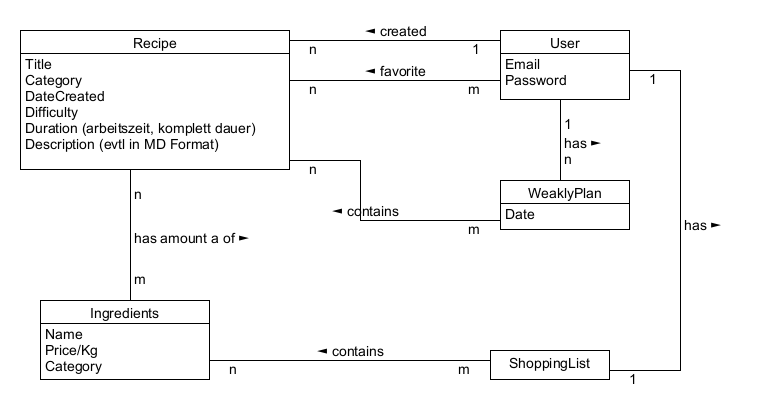
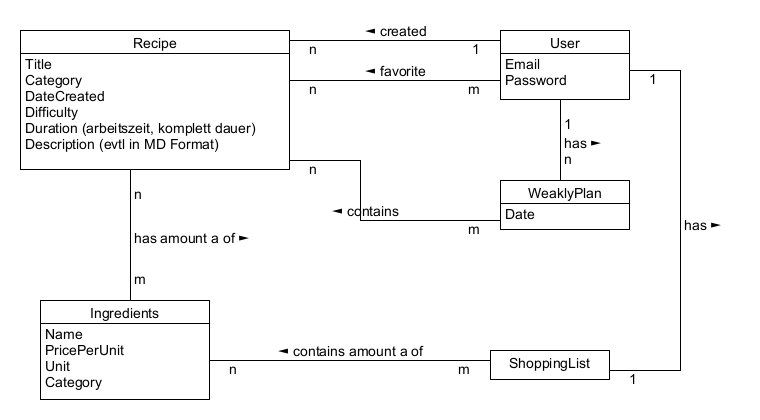
EAT-23: Fixed Database

Changed region(s): [[0.3632, 0.8048, 0.5447, 0.8667], [0.0605, 0.8048, 0.1513, 0.9286]]

diff --git a/api/EatIt.Core/Database/ApplicationDbContext.cs b/api/EatIt.Core/Database/ApplicationDbContext.cs
@@ -35,27 +35,31 @@ namespace EatIt.Core.Database {
 
             builder.Entity<RecipeIngredient>()
                 .HasKey(x => new { x.RecipeId, x.IngredientId });
-           /* builder.Entity<RecipeIngredient>()
-                .HasOne(x => x.Ingredient)
-                .WithOne()
-                .OnDelete(DeleteBehavior.NoAction);
-            builder.Entity<RecipeIngredient>()
-                .HasOne(x => x.Recipe)
-                .WithOne()
-                .OnDelete(DeleteBehavior.NoAction);*/
+            /* builder.Entity<RecipeIngredient>()
+                 .HasOne(x => x.Ingredient)
+                 .WithOne()
+                 .OnDelete(DeleteBehavior.NoAction);
+             builder.Entity<RecipeIngredient>()
+                 .HasOne(x => x.Recipe)
+                 .WithOne()
+                 .OnDelete(DeleteBehavior.NoAction);*/
             #endregion
 
             #region ShoppingIngredient Many to many
-            builder.Entity<ShoppingList>()
-                .HasMany(x => x.Ingredients)
-                .WithOne();
 
             builder.Entity<ShoppingIngredient>()
+                .HasKey(x => new { x.ShoppingListId, x.IngredientsId });
+
+            /*builder.Entity<ShoppingIngredient>()
                 .HasOne(x => x.Ingredient)
                 .WithMany();
 
             builder.Entity<ShoppingIngredient>()
-                .HasKey(x => new { x.ShoppingListId, x.IngredientsId });
+                .HasOne(x => x.ShoppingList)
+                .WithMany()
+                .HasForeignKey(x => x.UserId);
+            */
+            
             /*builder.Entity<ShoppingList>()
                 .HasMany(x => x.Ingredients)
                 .WithMany()
